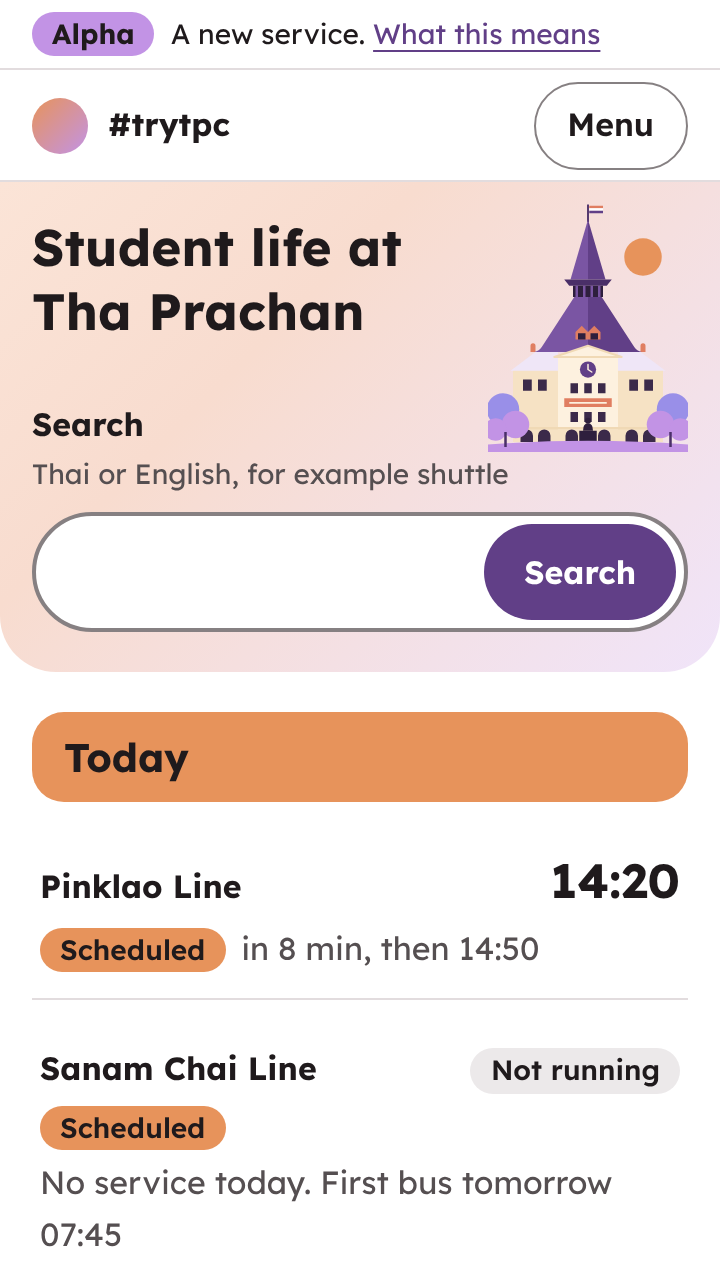
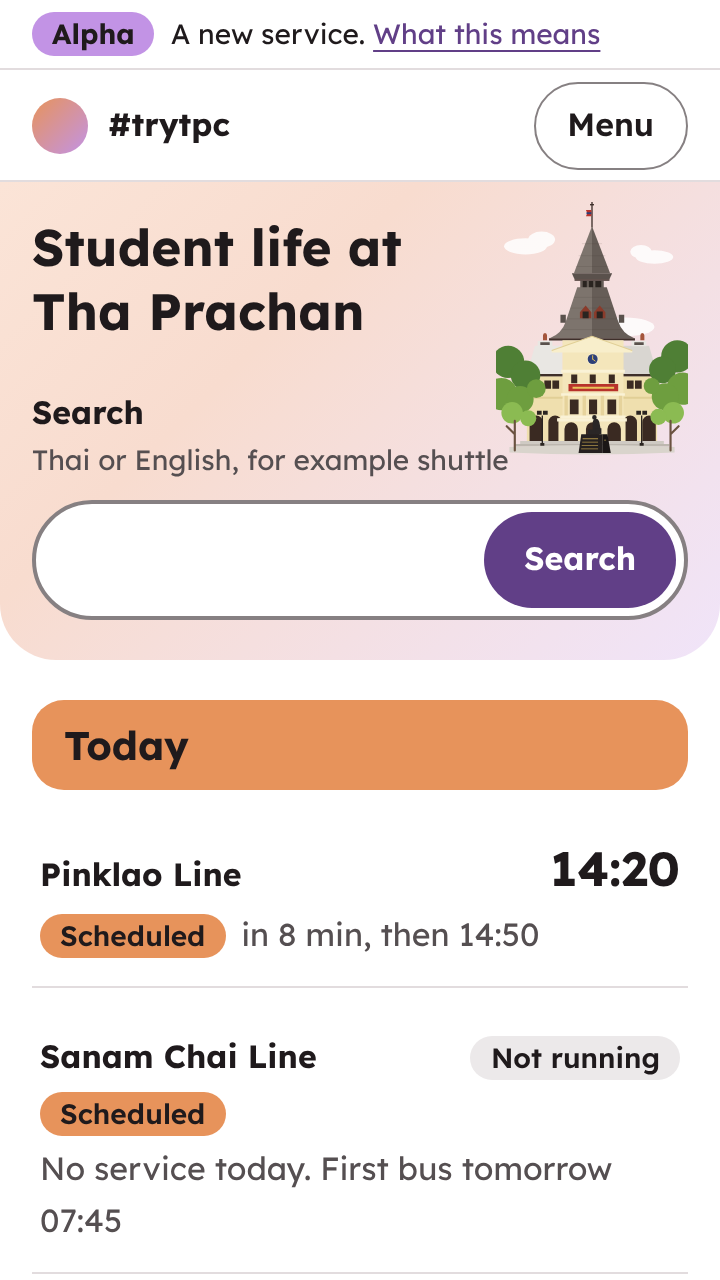
Redraw the Dome illustration to follow the photograph
Claude-Session: https://claude.ai/code/session_01SCeCTKKtYYnQxeXLoo1oGA

diff --git a/docs/mockups/home-warm.html b/docs/mockups/home-warm.html
@@ -87,7 +87,7 @@ a:focus-visible, button:focus-visible, input:focus-visible {
 .band-top { display: flex; align-items: flex-start; justify-content: space-between; gap: 8px; }
 .band h1 { font-size: 1.6rem; font-weight: 700; max-width: 15ch; }
 :lang(th) .band h1 { font-size: 1.6rem; max-width: 12em; }
-.band .dome { flex: none; width: 100px; margin-block: -6px -34px; }
+.band .dome { flex: none; width: 96px; margin-block: -8px -48px; }
 .band .dome svg { display: block; width: 100%; height: auto; }
 .band .search { position: relative; }
 .search { margin-top: 8px; }
@@ -184,32 +184,52 @@ footer li a { display: inline-flex; align-items: center; min-height: var(--targe
   </svg>
 </template>
 <template id="dome">
-<svg viewBox="0 0 160 200" aria-hidden="true" focusable="false">
-  <circle cx="124" cy="44" r="15" fill="#e7935b"/>
-  <path d="M80 2v14" stroke="#4a2f68" stroke-width="1.5"/>
-  <path d="M81 3h11v2h-11z" fill="#e07e61"/><path d="M81 5h11v2h-11z" fill="#fff"/><path d="M81 7h11v2h-11z" fill="#613f87"/>
-  <path d="M20 134h120v58H20z" fill="#f6e2c4"/>
-  <path d="M18 135l20-15h18v15zM142 135l-20-15h-18v15z" fill="#efe6f7"/>
-  <path d="M34 120h4v-5a2 2 0 0 0-4 0zM122 120h4v-5a2 2 0 0 0-4 0z" fill="#e07e61"/>
-  <path d="M80 14L66 62h14z" fill="#7a55a3"/><path d="M80 14l14 48H80z" fill="#613f87"/>
-  <path d="M61 62h38l-4 5H65z" fill="#4a2f68"/>
-  <path d="M68 67h24v9H68z" fill="#2e1f3d"/>
-  <path d="M70 67h2v9h-2zM76 67h2v9h-2zM82 67h2v9h-2zM88 67h2v9h-2z" fill="#7a55a3"/>
-  <path d="M69 76h11v44H37q4-1 6-4z" fill="#7a55a3"/><path d="M91 76H80v44h43q-4-1-6-4z" fill="#613f87"/>
-  <path d="M70 104l5-5 5 5v6H70zM80 104l5-5 5 5v6H80z" fill="#e07e61"/>
-  <path d="M72 105h6v5h-6zM82 105h6v5h-6z" fill="#2e1f3d"/>
-  <path d="M56 122h48v60H56z" fill="#fdf1df"/>
-  <path d="M53 124l27-9 27 9z" fill="#fdf1df" stroke="#f0d9b5" stroke-width="1.5" stroke-linejoin="round"/>
-  <circle cx="80" cy="134" r="6.5" fill="#613f87"/><path d="M80 134v-4M80 134l3 2" stroke="#fdf1df" stroke-width="1.2" stroke-linecap="round"/>
-  <g fill="#3b2a4a"><path d="M66 145h6v8h-6zM77 145h6v8h-6zM88 145h6v8h-6zM66 168h6v8h-6zM77 168h6v8h-6zM88 168h6v8h-6zM28 142h7v9h-7zM40 142h7v9h-7zM113 142h7v9h-7zM125 142h7v9h-7z"/></g>
-  <path d="M61 157h38v7H61z" fill="#e07e61"/><path d="M65 160h30v1.4H65z" fill="#fdf1df"/>
-  <path d="M20 180h120v2H20z" fill="#f0d9b5"/>
-  <g fill="#3b2a4a"><path d="M26 192v-5a5 5 0 0 1 10 0v5zM40 192v-5a5 5 0 0 1 10 0v5zM62 192v-5a5 5 0 0 1 10 0v5zM88 192v-5a5 5 0 0 1 10 0v5zM110 192v-5a5 5 0 0 1 10 0v5zM124 192v-5a5 5 0 0 1 10 0v5z"/></g>
-  <path d="M73 183h14v11H73z" fill="#2e1f3d"/><circle cx="80" cy="175" r="2.4" fill="#2e1f3d"/><path d="M76 183q0-6 4-6t4 6z" fill="#2e1f3d"/>
-  <path d="M0 194q80-6 160 0v6H0z" fill="#c293e5"/>
-  <g fill="#998fe8"><circle cx="12" cy="166" r="13"/><circle cx="148" cy="166" r="13"/></g>
-  <g fill="#c293e5"><circle cx="22" cy="178" r="11"/><circle cx="6" cy="182" r="9"/><circle cx="138" cy="178" r="11"/><circle cx="154" cy="182" r="9"/></g>
-  <path d="M14 196v-12M146 196v-12" stroke="#4a2f68" stroke-width="2"/>
+<svg viewBox="0 0 143 200" aria-hidden="true" focusable="false">
+  <g fill="#fff" opacity=".85"><ellipse cx="22" cy="36" rx="16" ry="6"/><ellipse cx="34" cy="31" rx="10" ry="6"/><ellipse cx="118" cy="44" rx="14" ry="5"/><ellipse cx="108" cy="40" rx="8" ry="5"/><ellipse cx="96" cy="96" rx="22" ry="7"/></g>
+  <path d="M71.5 3v19" stroke="#3e2f2a" stroke-width="1"/>
+  <path d="M70 5h3" stroke="#3e2f2a" stroke-width="1"/>
+  <path d="M71 9h-4l1 2.3-1 2.3h4z" fill="#b8322b"/><path d="M71 10.6h-3.6v1.4H71z" fill="#2d3f78"/>
+  <path d="M71.5 21L58 56h13.5z" fill="#7d746d"/><path d="M71.5 21L85 56H71.5z" fill="#665d57"/>
+  <path d="M56.5 56h30l-2 4.5h-26z" fill="#5a514c"/><path d="M58.5 60.5h26v1.2h-26z" fill="#3e2f2a"/>
+  <path d="M63 61.7h17v6H63z" fill="#2a2420"/>
+  <path d="M63 61.7h1.6v6H63zM67.6 61.7h1.6v6h-1.6zM72.4 61.7H74v6h-1.6zM78.4 61.7H80v6h-1.6z" fill="#665d57"/>
+  <path d="M60.5 66.5L52 92q-3 9-12 12.5h31.5V66.5z" fill="#7d746d"/><path d="M82.5 66.5L91 92q3 9 12 12.5H71.5V66.5z" fill="#665d57"/>
+  <g stroke="#3e2f2a" stroke-opacity=".18" stroke-width=".5"><path d="M64 34h15M61.5 43h20M59.5 51h24M58 74h27M55.5 82h32M53 90h37M49 98h45"/></g>
+  <path d="M62.5 85l4.25-5 4.25 5v4.5H62.5zM73 85l4.25-5 4.25 5v4.5H73z" fill="#8a3b2b"/>
+  <path d="M64.5 84.5h4.5v5h-4.5zM75 84.5h4.5v5H75z" fill="#2a2420"/>
+  <path d="M48 87h4v6h-4zM91.5 87h4v6h-4z" fill="#5a514c"/>
+  <path d="M39.5 104.5h64v1.6h-64z" fill="#3e2f2a"/>
+  <path d="M29 110h20.5v21H23z" fill="#e9e7e3"/><path d="M94 110h20l6 21H94z" fill="#d9d6d1"/>
+  <path d="M31 106.5h11v4H31zM101 106.5h11v4h-11z" fill="#e9e7e3"/><path d="M33 107.5h7v2h-7zM103 107.5h7v2h-7z" fill="#5a514c"/>
+  <path d="M35 106h3v-3.5a1.5 2 0 0 0-3 0zM107.5 106h3v-3.5a1.5 2 0 0 0-3 0z" fill="#a4553b"/>
+  <path d="M21 131h101v2.2H21z" fill="#3e2f2a"/>
+  <path d="M23 133h97v48H23z" fill="#efdfae"/>
+  <path d="M49.5 106h45.5v60H49.5z" fill="#f4e6bb"/>
+  <path d="M41.5 113.5l30-10.5 30 10.5v1.5H41.5z" fill="#f8eecb"/><path d="M41.5 113.5l30-10.5 30 10.5" fill="none" stroke="#e1cf96" stroke-width=".8"/>
+  <circle cx="72" cy="120" r="4.4" fill="#f8eecb"/><circle cx="72" cy="120" r="3.7" fill="#2d3f78"/><path d="M72 120v-2.6M72 120l1.8 1.4" stroke="#e8c25a" stroke-width=".7" stroke-linecap="round"/>
+  <path d="M48.5 128h47.5v2.2H48.5z" fill="#faf2d6"/>
+  <g fill="#3a2a22"><path d="M56 131.5h4.5v6.5H56zM69.8 131.5h4.5v6.5h-4.5zM84 131.5h4.5v6.5H84z"/></g>
+  <path d="M54 138.6h37v5.4H54z" fill="#b8322b"/><path d="M57 140.6h31v1.4H57z" fill="#e8c25a"/>
+  <path d="M48.5 145.5h47.5v1.8H48.5z" fill="#faf2d6"/>
+  <g fill="#e6d39c"><path d="M51 147.3h2.5v15H51zM64.5 147.3H67v15h-2.5zM78 147.3h2.5v15H78zM91.5 147.3H94v15h-2.5z"/></g>
+  <g fill="#3a2a22"><path d="M55 150h6.5v11H55zM69.3 150h6v11h-6zM83 150h6.5v11H83z"/></g>
+  <path d="M48 162h48.5v2H48z" fill="#faf2d6"/>
+  <g fill="#3a2a22"><path d="M26 136h5v6h-5zM36 136h5v6h-5zM42 136h5v6h-5zM97.5 136h5v6h-5zM103.5 136h5v6h-5zM113 136h5v6h-5z"/></g>
+  <path d="M23 148h26.5v1.6H23zM95 148h25v1.6H95z" fill="#e1cf96"/>
+  <g fill="#3a2a22"><path d="M25 181v-14a5 5 0 0 1 10 0v14zM39 181v-14a5 5 0 0 1 10 0v14zM95 181v-14a5 5 0 0 1 10 0v14zM109 181v-14a5 5 0 0 1 10 0v14z"/></g>
+  <path d="M46.5 164h50v17h-50z" fill="#f4e6bb"/><path d="M45.5 164h52v2.4h-52z" fill="#faf2d6"/>
+  <g fill="#3a2a22"><path d="M51 181v-9a5 5 0 0 1 10 0v9zM67 181v-9a5 5 0 0 1 10 0v9zM83 181v-9a5 5 0 0 1 10 0v9z"/></g>
+  <path d="M18 181h107v2.2H18z" fill="#cfcac3"/><path d="M14 183.2h115v1.8H14z" fill="#bdb7af"/>
+  <path d="M10 185.5q61.5-3 123 0v4q-61.5 3-123 0z" fill="#d9d4cc"/>
+  <path d="M63.5 176h16v14H61.5z" fill="#252020"/><path d="M79.5 176h3.5l2.5 14h-6z" fill="#1a1616"/>
+  <g fill="#e8c25a" opacity=".7"><path d="M64.5 179h11.5v.6H64.5zM64.2 181.5h11.8v.6H64.2zM63.8 184h12.2v.6H63.8zM63.4 186.5h12.6v.6H63.4zM80.5 180h1.5v.6h-1.5z"/></g>
+  <path d="M71.6 163.4a1.7 1.7 0 1 1 3.4 0 1.7 1.7 0 0 1-3.4 0zM68.5 176v-3.5h3.5v-4.5q0-3 2-3.5t3 2.5l1 5.5h-3.5v3.5z" fill="#2a2626"/><path d="M74 176v-4.5h4.5v4.5z" fill="#2a2626"/>
+  <g stroke="#2a2420" stroke-width="1"><path d="M34.5 162v22M108.5 162v22"/></g>
+  <g fill="#2a2420"><path d="M30.5 158.5h3.5v3h-3.5zM35 158.5h3.5v3H35zM104.5 158.5h3.5v3h-3.5zM109 158.5h3.5v3H109z"/><path d="M33 182.5h3v2h-3zM107 182.5h3v2h-3z"/></g>
+  <g fill="#4f7f35"><circle cx="9" cy="122" r="12"/><circle cx="22" cy="132" r="11"/><circle cx="135" cy="118" r="12"/><circle cx="124" cy="128" r="10"/></g>
+  <g fill="#6e9e3f"><circle cx="4" cy="146" r="12"/><circle cx="18" cy="150" r="10"/><circle cx="30" cy="142" r="7"/><circle cx="139" cy="142" r="12"/><circle cx="126" cy="148" r="10"/><circle cx="116" cy="140" r="6"/></g>
+  <g fill="#8bbb52"><circle cx="12" cy="160" r="8"/><circle cx="132" cy="160" r="8"/><circle cx="24" cy="164" r="6"/><circle cx="121" cy="163" r="6"/></g>
+  <g stroke="#6a5240" stroke-width="1.6" stroke-linecap="round"><path d="M14 188v-22M8 170l6 6M130 188v-22M136 170l-6 6"/></g>
 </svg>
 </template>
 <script>

diff --git a/docs/home-redesign-plan.md b/docs/home-redesign-plan.md
@@ -129,7 +129,7 @@ h2  Student union and council
 
 Chosen with the product owner on 25 October 2026. The page should feel warm, soft and local without becoming loud. The warmth lives in shape, colour and illustration; behaviour, copy and the honesty rules do not change.
 
-Mock-up: `docs/mockups/home-warm.html` (static, sample content; `?lang=en`, `?theme=dark`, `?empty=1`). Screenshots are in `docs/mockups/shots/`. At 360 by 640 the first shuttle row ends at 582 px in Thai and 500 px in English, and axe (WCAG 2.2 AA tags) reports no violations in either language or theme.
+Mock-up: `docs/mockups/home-warm.html` (static, sample content; `?lang=en`, `?theme=dark`, `?empty=1`). Screenshots are in `docs/mockups/shots/`. At 360 by 640 the first shuttle row ends at 578 px in Thai and 494 px in English, and axe (WCAG 2.2 AA tags) reports no violations in either language or theme.
 
 | Decision | Choice | Detail |
 |---|---|---|
@@ -138,7 +138,7 @@ Mock-up: `docs/mockups/home-warm.html` (static, sample content; `?lang=en`, `?th
 | Section colour | Full fill heading bar | Each `h2` is a 16 px rounded bar in its category fill with `--ink-on-fill`: transport orange for Today, activity lilac for What's on, governance indigo for the union. Popular tasks has no category, so it uses `--colour-action` purple with white text (8.17:1) |
 | Shape | Soft | 16 px radius on bars, task rows and empty states; pills for search, buttons and tags; 28 px on the band and footer corners |
 | Popular tasks | Rounded list rows with an arrow | Full-width rows at least 64 px high on `--surface-alt`, purple label, one scent line, and a round purple arrow. The whole row is the link |
-| Illustration | Campus landmarks | The main illustration is the Dome building (ตึกโดม), drawn from a front photograph: purple spire and lower roof, cream tower with the clock and the red name band, the arcade, the statue, and trees either side (`docs/mockups/illustrations/dome.svg`, 2.4 KB). It sits at the right of the top band, beside the `h1`. Smaller scenes (the river ferry, the sun over the Chao Phraya) are used in empty states and on 404 and error pages. All are decorative, `aria-hidden`, under 5 KB each. The Dome keeps fixed palette colours in both themes because it depicts a real building; the smaller scenes use tokens and follow the theme |
+| Illustration | Campus landmarks | The main illustration is the Dome building (ตึกโดม), drawn from a front photograph in the building's own colours: the grey-brown shingled spire with its flag, skirt eave and open belfry; the flared lower roof with two red dormers and the side boxes; the pale side roofs with terracotta finials; the cream tower with the pediment, the blue clock, the red name band in gold, the pilasters and the three-arch porch; the arched wings; Pridi Banomyong's seated statue on its black plinth; the twin lamp posts; trees either side and a few clouds (`docs/mockups/illustrations/dome.svg`, 4.9 KB; render in `docs/mockups/shots/dome-illustration.png`). It sits at the right of the top band, beside the `h1`. Smaller scenes (the river ferry) are used in empty states and on 404 and error pages. All are decorative, `aria-hidden`, under 5 KB each. The Dome keeps fixed colours in both themes because it depicts a real building; the smaller scenes use tokens and follow the theme |
 | Thai type | Keep Sarabun | No extra font download |
 | Voice | Plain everywhere | The official register in CONTRIBUTING.md is unchanged, including empty states |
 | Dark mode | Plum and amber | Surfaces move from near-black to plum (`#1a1220`, `#251a2d`); the band becomes an amber and lilac glow on deep plum; fills use the existing dark values |
@@ -154,7 +154,7 @@ Open points for the build:
 - The date block on event rows uses the lilac fill. Check that it stays legible at 200% text size.
 - The first-screen budget is tight in Thai: the `h1` wraps to two lines beside the illustration. If an alert banner is present, the shuttle row moves below the fold; the target in section 4 already allows for that.
 - The plum dark surfaces need new contrast pairs in `check-contrast.mjs` (section 9).
-- In dark mode the Dome's purple spire sits close to the plum band. It is decorative, so no contrast rule applies, but a lighter roof tone for dark mode is worth testing.
+- At 96 px wide the Dome's detail (statue, sign text bar, lamps) is small. Check it still reads as the Dome on a low-density Android screen; if not, drop the lamps and clouds below 48rem.
 
 ## 4. Targets the new page must meet
 
